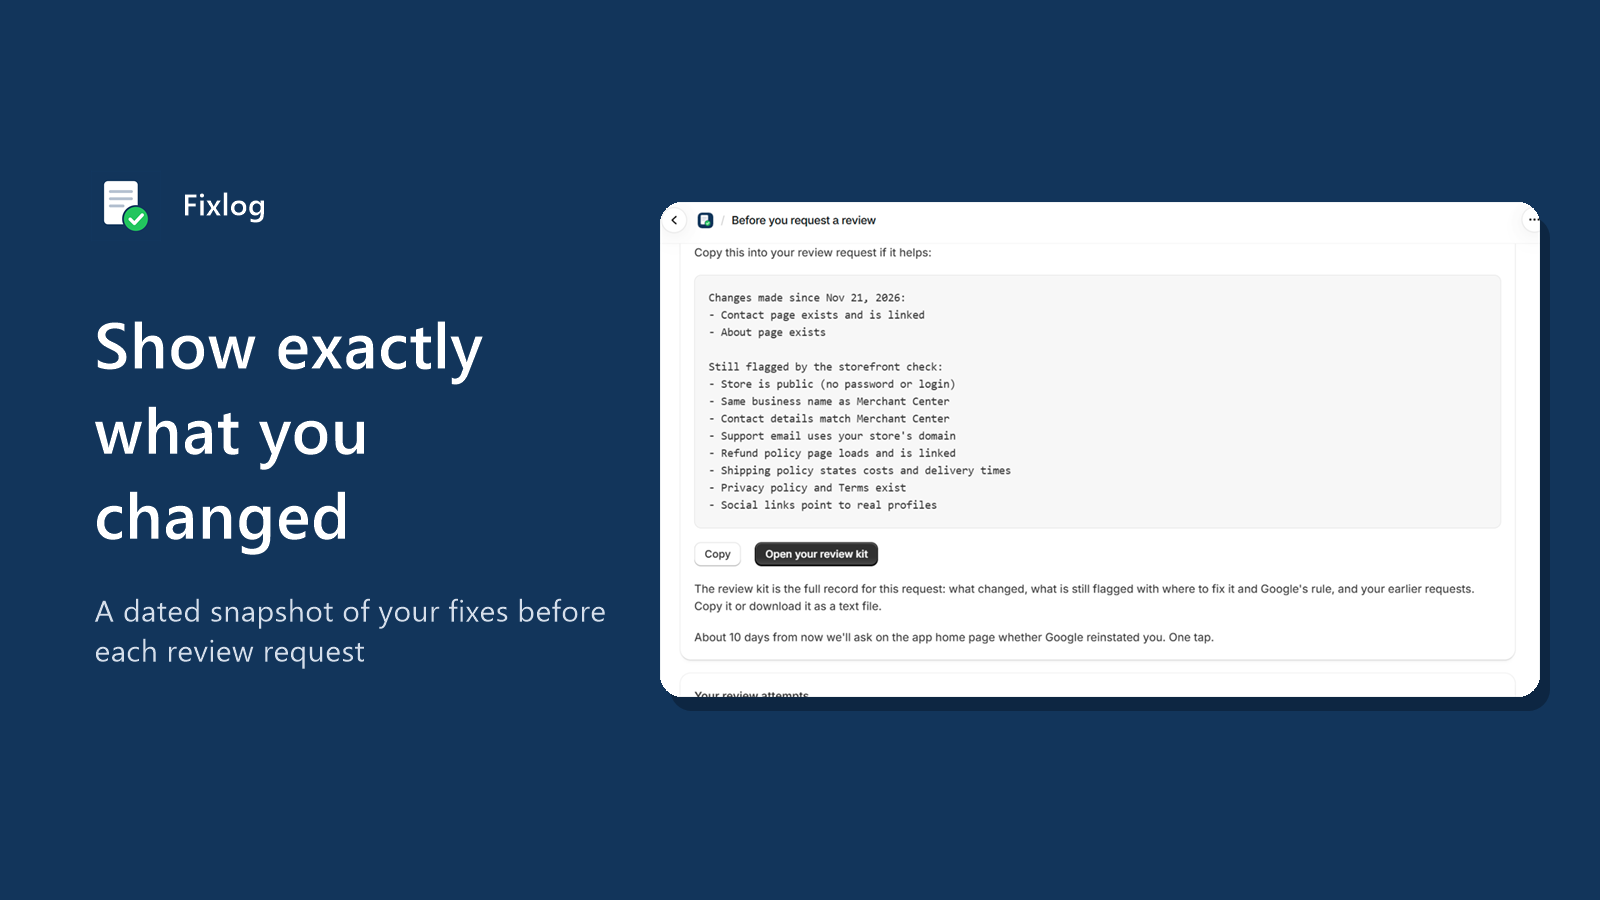
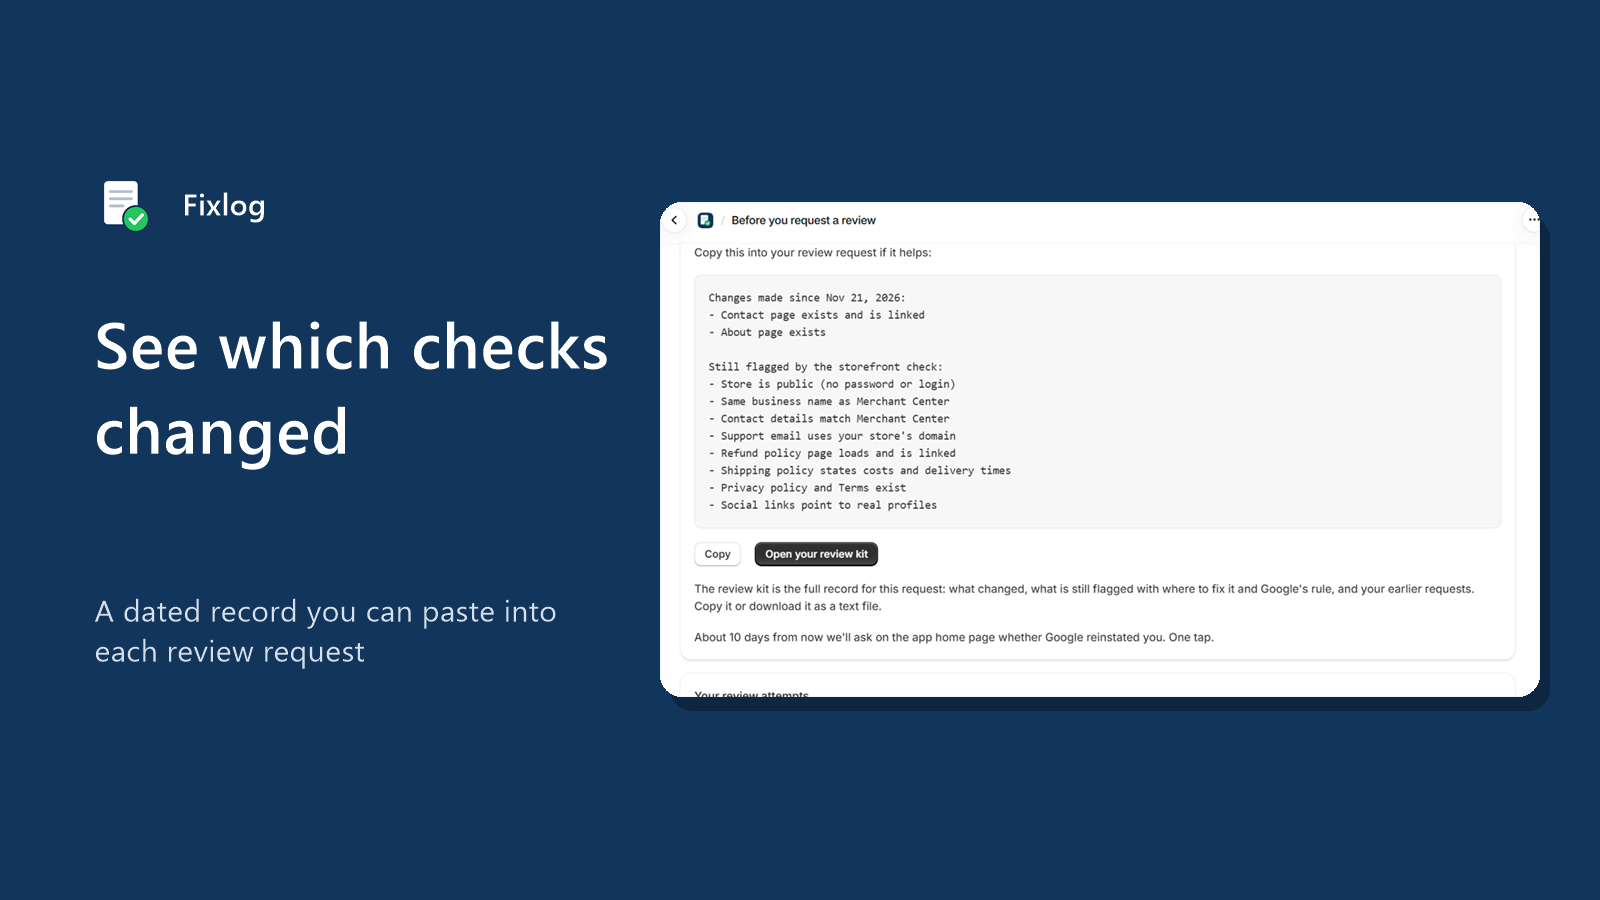
Say only what the app does: no "crawler" or "exactly what changed" claims
/scan and the app home now say the scan reads the HTML the store sends
before JavaScript runs, and that a snapshot lists which checks changed.
Clearer labels and helper text on both pages; the listing draft, feature
image, screencast line and forum post use the same wording.

diff --git a/gmc-app/app/routes/app._index.tsx b/gmc-app/app/routes/app._index.tsx
@@ -129,7 +129,7 @@ export const action = async ({ request }: ActionFunctionArgs): Promise<ActionRes
       intent: "scan",
       ok: false,
       limit: true,
-      error: `You've used your ${FREE_SCANS} free scans for the last ${FREE_WINDOW_DAYS} days. Your earlier results are still below.`,
+      error: `You've used your ${FREE_SCANS} free scans in the last ${FREE_WINDOW_DAYS} days. Your earlier results are still below.`,
     };
   }
 
@@ -153,7 +153,7 @@ const fmtDate = (iso: string) => new Date(iso).toLocaleDateString(undefined, { y
 function summary(statuses: Status[]) {
   const checked = statuses.filter((s) => s !== "na");
   const passed = checked.filter((s) => s === "pass").length;
-  return `${passed} of ${checked.length} published Google criteria we checked passed`;
+  return `${passed} of ${checked.length} checks passed`;
 }
 
 function FindingList({ findings }: { findings: Finding[] }) {
@@ -250,12 +250,12 @@ export default function Index() {
       {askOutcome.length > 0 && outcomeFetcher.state === "idle" && !outcomeFetcher.data ? (
         <s-banner tone="info" heading={`Did Google finish reviewing your request from ${fmtDate(askOutcome[0].requestedAt)}?`}>
           <s-paragraph>
-            One tap. If you opted in to sharing, your answer (with no store address) helps show which fixes other merchants made
-            before being reinstated.
+            One tap. If you opted in to sharing, your answer is saved without your store address and helps other merchants
+            see which fixes came before a reinstatement.
           </s-paragraph>
           <s-stack direction="inline" gap="base">
             <s-button onClick={() => answer(askOutcome[0].id, "reinstated")}>Reinstated</s-button>
-            <s-button onClick={() => answer(askOutcome[0].id, "rejected")}>Rejected</s-button>
+            <s-button onClick={() => answer(askOutcome[0].id, "rejected")}>Not reinstated</s-button>
             <s-button variant="tertiary" onClick={() => answer(askOutcome[0].id, "pending")}>
               Still waiting
             </s-button>
@@ -318,8 +318,8 @@ export default function Index() {
           <s-stack direction="block" gap="base">
             <s-paragraph>
               Google can't see a password-protected store. Remove the password in Online Store → Preferences when you
-              launch. Until then, save your storefront password here and the scan will check what Google will see once
-              the password is gone. It is only used to open your store for scans, and deleted when you uninstall.
+              launch. Until then, save your storefront password here and the scan will check your store as it will look
+              once the password is removed. It is only used to open your store for scans, and deleted when you uninstall.
             </s-paragraph>
             <s-text-field
               label="Storefront password"
@@ -365,9 +365,9 @@ export default function Index() {
       ) : (
         <s-section heading="Check your storefront before you ask Google for a review">
           <s-paragraph>
-            The scan reads your public storefront the way Google's crawler does and checks it against Google Merchant
-            Center's published website requirements: contact details, policies, placeholder text, broken links, prices
-            and claims.
+            The scan reads the HTML your storefront sends, before any JavaScript runs, and checks it against the website
+            rules in Google&apos;s Merchant Center help: contact details, policies, placeholder text, broken links, prices
+            and claims. It takes up to 30 seconds.
           </s-paragraph>
           <s-button variant="primary" onClick={runScan} {...(scanning ? { loading: true } : {})}>
             Scan my store
@@ -390,7 +390,7 @@ export default function Index() {
       <s-section slot="aside" heading="Before you request a review">
         <s-paragraph>
           Each failed review can cost a week or more of waiting. When you've made your fixes, take a snapshot: it records
-          exactly what changed since your first scan, so you can list it in your request.
+          which checks changed since your first scan, so you can list them in your request.
         </s-paragraph>
         <s-link href="/app/snapshot">Take a pre-review snapshot</s-link>
       </s-section>
@@ -399,7 +399,7 @@ export default function Index() {
         <s-paragraph>
           {passActive && passUntil
             ? `Active until ${fmtDate(passUntil)}: unlimited scans and snapshots.`
-            : `${left ?? 0} of ${FREE_SCANS} free scans left in the last ${FREE_WINDOW_DAYS} days.`}
+            : `${left ?? 0} of ${FREE_SCANS} free scans left. Scans older than ${FREE_WINDOW_DAYS} days don't count.`}
         </s-paragraph>
         {!passActive ? (
           <s-link href="/app/pass">{`Unlimited scans for 60 days, $${PASS_PRICE_USD} once${refundNote}`}</s-link>

diff --git a/gmc-app/app/routes/scan/route.tsx b/gmc-app/app/routes/scan/route.tsx
@@ -187,7 +187,7 @@ function Report({ origin, findings, scanId }: { origin: string; findings: Findin
         <strong>
           {passed} of {applicable.length}
         </strong>{" "}
-        published Google criteria we checked passed · <span className={styles.failText}>{toFix} to fix</span> ·{" "}
+        checks passed · <span className={styles.failText}>{toFix} to fix</span> ·{" "}
         <span className={styles.warnText}>{toCheck} to check</span>
       </p>
 
@@ -247,8 +247,8 @@ function Waitlist({ scanId }: { scanId: string }) {
       <input type="hidden" name="scanId" value={scanId} />
       <h2 className={styles.waitlistTitle}>Track your fixes before you request a review</h2>
       <p className={styles.muted}>
-        The Shopify app (coming soon) re-scans right before you request a review and lists exactly what you changed since
-        your first scan, so you can paste it into your appeal and keep a record between attempts.
+        The Shopify app (coming soon) re-scans right before you request a review and lists which checks changed since your
+        first scan, so you can paste the list into your review request and keep a record between attempts.
       </p>
 
       <fieldset className={styles.fieldset}>
@@ -297,7 +297,7 @@ function Waitlist({ scanId }: { scanId: string }) {
         question, one click).
       </label>
       <p className={styles.small}>
-        We use your email only for this. See our <Link to="/privacy">privacy policy</Link>.
+        We use your email only for the launch email and, if you tick the box, the 14-day question. See our <Link to="/privacy">privacy policy</Link>.
       </p>
       {res?.intent === "waitlist" && !res.ok && <p className={styles.error}>{res.error}</p>}
       <button className={styles.button} type="submit" disabled={fetcher.state !== "idle"}>
@@ -330,8 +330,8 @@ export default function ScanPage() {
       <header className={styles.header}>
         <h1 className={styles.h1}>Check your Shopify store against Merchant Center's website rules</h1>
         <p className={styles.lede}>
-          Free. Every finding is shown, each linked to the Google help page it comes from and the place in Shopify to fix
-          it. We read your public pages the way Google's crawler does: server HTML, no JavaScript.
+          Free, and every finding is shown. Each one links to the Google help page it comes from and says where to fix it
+          in Shopify. We read the HTML your store sends, before any JavaScript runs.
         </p>
       </header>
 
@@ -344,7 +344,8 @@ export default function ScanPage() {
         </label>
         <label className={styles.field}>
           <span>
-            Business name exactly as in your Merchant Center <em className={styles.muted}>(optional)</em>
+            Business name as shown in Merchant Center{" "}
+            <em className={styles.muted}>(optional: we check that your site uses the same name)</em>
           </span>
           <input name="gmcBusinessName" placeholder="e.g. ABC Company" maxLength={120} />
         </label>

diff --git a/gmc-app/app/routes/app.snapshot.tsx b/gmc-app/app/routes/app.snapshot.tsx
@@ -181,7 +181,7 @@ export default function Snapshot() {
       <s-section heading="Take a snapshot right before you ask Google">
         <s-paragraph>
           Each unsuccessful review in Merchant Center can start a cool-down that grows with every attempt. This snapshot
-          re-scans your store and lists exactly what changed since your first scan, so your request can say what you fixed.
+          re-scans your store and lists which checks changed since your first scan, so your request can say what you fixed.
           It is a record of changes, not a prediction: Google alone decides.
         </s-paragraph>
         {needsPass ? (

diff --git a/docs/listing-draft.md b/docs/listing-draft.md
@@ -19,21 +19,21 @@ New Merchant Center apps seen in the same searches (2026-11-16), not yet profile
 61 characters. Backup: "Check your store against Google rules before a GMC review" (57).
 
 ## Feature media
-`docs/listing/feature-image.png` (1600×900, drawn by `docs/listing/make-feature-image.ps1`): headline "Show exactly what you changed" plus the pre-review snapshot screenshot. Alt text: "Fixlog snapshot of the changes made before a Merchant Center review request".
+`docs/listing/feature-image.png` (1600×900, drawn by `docs/listing/make-feature-image.ps1`): headline "See which checks changed" plus the pre-review snapshot screenshot. Alt text: "Fixlog snapshot listing which checks changed before a Merchant Center review request".
 
 ## App introduction (≤ 100)
-> Check your storefront against Google's published Merchant Center rules and track what you fix.
+> Check your storefront against Google's Merchant Center website rules and track what you fix.
 
 ## App details (≤ 500)
-> Suspended by Merchant Center and the notice doesn't say why? This app reads your public storefront the way Google's crawler does and checks it against Google's published website, contact, policy and pricing rules. Every finding shows what we saw, the Google help page it comes from, and where to fix it in Shopify. Before you request a review, take a snapshot: you get a dated list of what changed since your last scan. Independent tool, not affiliated with Google. Google alone decides on reviews.
+> Suspended by Merchant Center and the notice doesn't say why? This app reads your storefront's HTML before any JavaScript runs and checks it against Google's published website, contact, policy and pricing rules. Every finding shows what we saw, the Google help page it comes from, and where to fix it in Shopify. Before you request a review, take a snapshot: a dated list of checks that changed since your last scan. Independent tool, not affiliated with Google. Google alone decides on reviews.
 
 ## Feature list (≤ 80 each)
-- Scan your storefront against Google's published Merchant Center rules
+- Check your storefront against website rules in Google's Merchant Center help
 - Every finding shows evidence, Google's rule, and where to fix it in Shopify
-- Pre-review snapshot: see exactly what changed since your last scan
+- Pre-review snapshot: see which checks changed since your last scan
 - Review request kit: what changed, what's still flagged, your earlier requests
-- Dated history of your review requests and their outcomes
-- Reads only your public storefront. No customer or order data
+- Dated history of your review requests and the outcomes you record
+- Reads only your storefront pages. No access to customers, orders or products
 
 ## Search terms (≤ 5)
 merchant center suspended · misrepresentation · website needs improvement · google shopping policy · gmc compliance

diff --git a/docs/submission-guide.md b/docs/submission-guide.md
@@ -51,7 +51,7 @@ Lời thoại tiếng Anh nằm trong dấu ngoặc kép. Đoạn nào cần gõ
 | 4 | Báo cáo đầy đủ hiện ra. Mở 1 finding (ví dụ About page hoặc Contact page), chỉ vào evidence, **Where to fix** và link **Google's rule**. **Không mở** finding "Support email". | "Each finding shows what the app saw, where to fix it in the Shopify admin, and the Google help page the rule comes from." |
 | 5 | **Merchant Center info** → điền 4 trường bằng dữ liệu giả (vd. Fixlog Demo, +1 555 010 0199, support@example.com, 100 Test Street, Orlando, FL 32801) → Save → **Scan again**. | "Next I enter the business details exactly as they are in Merchant Center. The Identity and Contact checks now compare them with the storefront." |
 | 6 | (Pause) Mở tab admin → **Online Store → Pages → Add page**, tiêu đề **About us**, gõ một câu → Save. (Resume) | "Now I fix one issue in the store: I add an About page." |
-| 7 | Quay lại app → **Before you request a review** → chọn một issue label → **I'm about to request a review**. Danh sách **"Changes made since …"** có dòng "About page exists". | "Right before asking Google for a review, the merchant takes a snapshot. The app scans again and lists exactly what changed since the first full scan." |
+| 7 | Quay lại app → **Before you request a review** → chọn một issue label → **I'm about to request a review**. Danh sách **"Changes made since …"** có dòng "About page exists". | "Right before asking Google for a review, the merchant takes a snapshot. The app scans again and lists which checks changed since the first full scan." |
 | 8 | Bấm **Open your review kit** → **Copy**, rồi **Download .txt**. | "The review kit has what changed, what is still flagged, and earlier requests. The merchant can copy it or download it as a text file." |
 | 9 | Về app home: dòng "0 of 3 free scans left" hiện ra. Mở **Reinstatement Pass** → **Get the pass** → trang **Approve charge** của Shopify ("You will not be billed for this test charge") → **Approve** (bạn tự bấm). | "The free plan includes every finding, three scans every thirty days, and the first snapshot. The Reinstatement Pass is a one-time charge through Shopify Billing. On a development store it's a test charge." |
 | 10 | Trang hiện **"Your pass is active until …"** → về app home → **Scan my store** chạy được. | "With the pass, scans and snapshots are unlimited for sixty days. A refund can be requested on this page within seven days." |

diff --git a/docs/traffic-week1.md b/docs/traffic-week1.md
@@ -90,7 +90,7 @@ Link: https://community.shopify.com/t/657684
 >
 > Disclosure: I built this tool (it's called Fixlog). It's free, with no sign-up.
 >
-> It reads your public store the way Google's crawler does (server HTML, no JavaScript) and checks it against Google's published Merchant Center website requirements. That covers contact details, business-name consistency, return/refund/shipping policy content, placeholder text, broken links, prices in structured data vs. the page, and claims Google calls unreliable. Every finding shows what it saw, the Google help page the rule comes from, and where to fix it in Shopify. Nothing is hidden behind a paywall.
+> It reads the HTML your store sends, before any JavaScript runs, and checks it against Google's published Merchant Center website requirements. That covers contact details, business-name consistency, return/refund/shipping policy content, placeholder text, broken links, prices in structured data vs. the page, and claims Google calls unreliable. Every finding shows what it saw, the Google help page the rule comes from, and where to fix it in Shopify. Nothing is hidden behind a paywall.
 >
 > https://gmc-checker-wgme.onrender.com/scan?ref=sc-askoffer
 >
